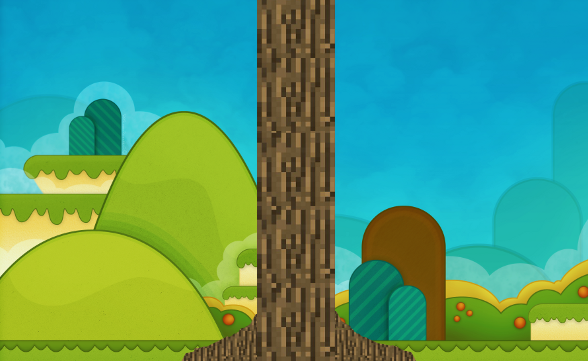
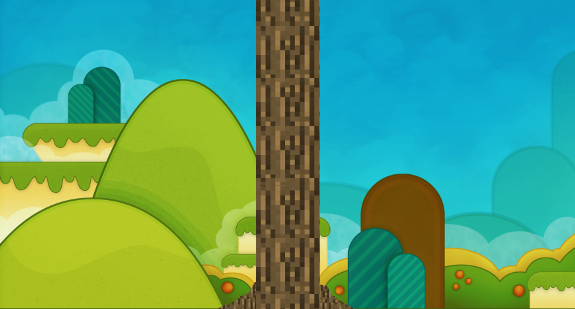
lel

diff --git a/src/affichage/Selecteur.java b/src/affichage/Selecteur.java
@@ -17,10 +17,10 @@ public class Selecteur extends JPanel {
 
 	public Selecteur(final Plateau p) {
 		this.setP(p);
-		this.setPreferredSize(new Dimension(360, 120));
+		this.setPreferredSize(new Dimension(360, 67));
 		
 		final JButton boutonBois = new JButton(new ImageIcon("./res/bloc_bois.png"));
-		boutonBois.setPreferredSize(new Dimension(60, 60));	
+		boutonBois.setPreferredSize(new Dimension(40, 40));	
 		boutonBois.setToolTipText("Bois");
 		this.add(boutonBois);
 		boutonBois.addActionListener(new ActionListener() {
@@ -32,7 +32,7 @@ public class Selecteur extends JPanel {
 		});
 		
 		final JButton boutonPierre = new JButton(new ImageIcon("./res/bloc_pierre.png"));
-		boutonPierre.setPreferredSize(new Dimension(60, 60));	
+		boutonPierre.setPreferredSize(new Dimension(40, 40));	
 		boutonPierre.setToolTipText("Pierre");
 		this.add(boutonPierre);
 		boutonBois.addActionListener(new ActionListener() {
@@ -44,7 +44,7 @@ public class Selecteur extends JPanel {
 		});
 		
 		final JButton boutonMetal = new JButton(new ImageIcon("./res/bloc_metal.png"));
-		boutonMetal.setPreferredSize(new Dimension(60, 60));
+		boutonMetal.setPreferredSize(new Dimension(40, 40));
 		boutonMetal.setToolTipText("Metal");
 		this.add(boutonMetal);
 		boutonBois.addActionListener(new ActionListener() {
@@ -56,7 +56,7 @@ public class Selecteur extends JPanel {
 		});
 		
 		final JButton boutonVerre = new JButton(new ImageIcon("./res/bloc_verre.png"));
-		boutonVerre.setPreferredSize(new Dimension(60, 60));
+		boutonVerre.setPreferredSize(new Dimension(40, 40));
 		boutonVerre.setToolTipText("Verre");
 		this.add(boutonVerre);
 		boutonBois.addActionListener(new ActionListener() {
@@ -68,7 +68,7 @@ public class Selecteur extends JPanel {
 		});
 		
 		final JButton boutonBase = new JButton(new ImageIcon("./res/bloc_base.png"));
-		boutonBase.setPreferredSize(new Dimension(60, 60));	
+		boutonBase.setPreferredSize(new Dimension(40, 40));	
 		boutonBase.setToolTipText("Base");
 		this.add(boutonBase);
 		boutonBois.addActionListener(new ActionListener() {

diff --git a/src/affichage/Ecran.java b/src/affichage/Ecran.java
@@ -16,18 +16,18 @@ public class Ecran extends JFrame{
 	private static final Grille grille = new Grille();
 	
 	public Ecran() {
-		super("Test plateau");
-		setPreferredSize(new Dimension(588,800));
+		super("House on Tree");
+		setPreferredSize(new Dimension(575,800));
 		setResizable(false);
 		
 		setLayout(new BorderLayout());
 		JPanel degueulasse = new JPanel();
 		Plateau p= new Plateau(grille);
 		degueulasse.setLayout(new GridLayout(2,1));
-		add(new Selecteur(p), BorderLayout.NORTH);
 		degueulasse.add(p);
 		degueulasse.add(new Tronc());
-		add(degueulasse, BorderLayout.CENTER);
+		add(degueulasse, BorderLayout.NORTH);
+		add(new Selecteur(p), BorderLayout.SOUTH);
 		
 		pack();
 		setVisible(true);
